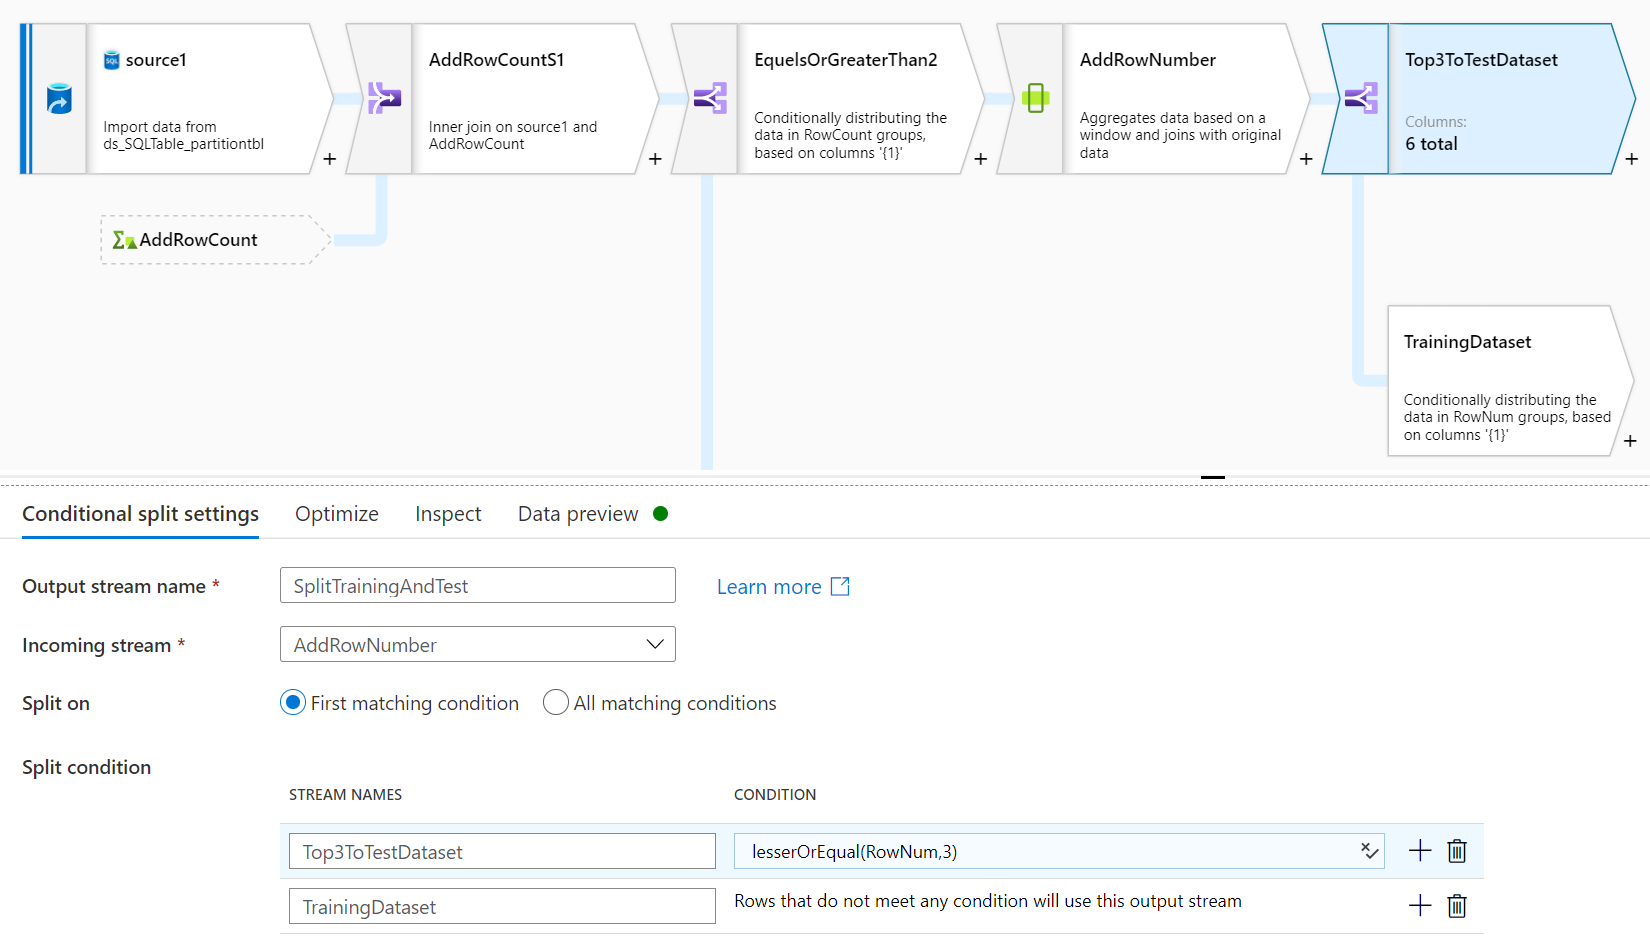
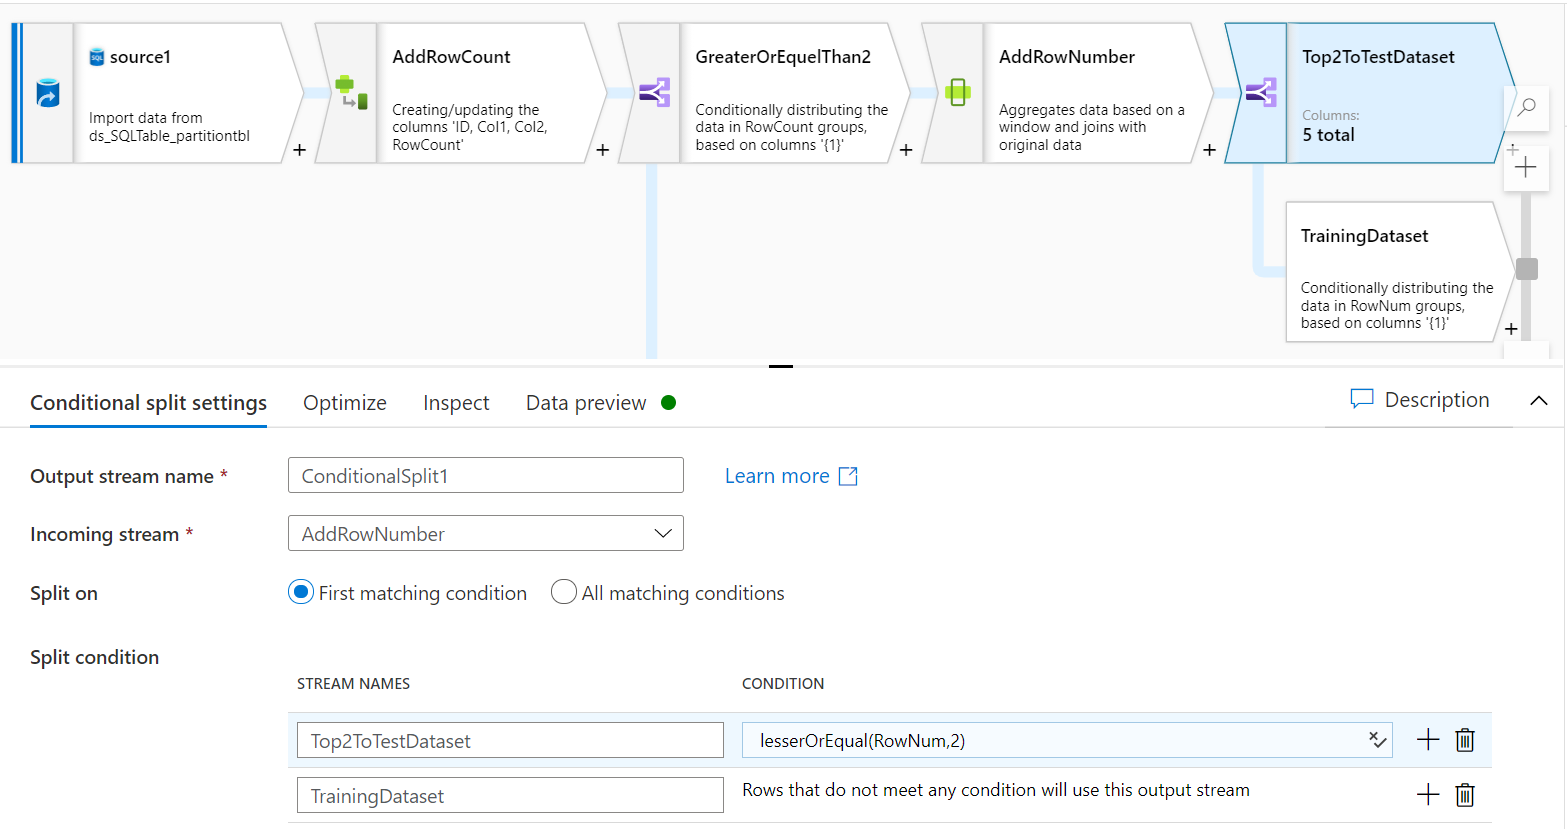
update cachesink

diff --git a/Azure Machine Learning/Use ADF to process data for AML models/Use ADF to process data for AML models.md b/Azure Machine Learning/Use ADF to process data for AML models/Use ADF to process data for AML models.md
@@ -1,72 +1,90 @@
-# Use Data Factories to process data for automated machine learning(Automl)
+# Use Azure Data Factories to process data for automated machine learning(AutoML) models
 
-Automated machine learning(Automl) would train, tune and gain best model automatically using target metric you specify for classification, regression and time-series forecasting. 
+[Automated machine learning(AutoML)](https://docs.microsoft.com/en-us/azure/machine-learning/concept-automated-ml) is adopted by machine learning projects to train, tune and gain best model automatically using target metric you specify for classification, regression and time-series forecasting. 
 
-But current raw data from data warehouse or transactional database would be huge for dataset of machine learning model. You would [optimize data processing](https://docs.microsoft.com/en-us/azure/machine-learning/concept-optimize-data-processing) via increase RAM of VM, another option is partitioning dataset to parquet file before training models. [Parquet file](https://parquet.apache.org/) formats are recommended for machine learning tasks since it's binary columnar format.
+One of challenges is raw data from data warehouse or transactional database would be huge dataset during training Azure machine learning model. You would [optimize data processing](https://docs.microsoft.com/en-us/azure/machine-learning/concept-optimize-data-processing) via increasing RAM of VM. Given [Parquet file](https://parquet.apache.org/) formats are recommended for machine learning tasks since it's binary columnar format.This tutorial will go through another option partitioning dataset to parquet files before training models. 
 
-Azure Data Factory is a data transformation service, using it would process AML data from below three catagories. 
+In Automated machine learning(AutoML) project, it would apply below three data processing scenarios:
+
+1. Partition large data to parquet files before training models. 
+
+    [Pandas dataframe](https://pandas.pydata.org/pandas-docs/stable/getting_started/overview.html) is commonly used to process data before training models. Even Pandas dataframe works well for data sizes less than 1GB, but if data is large than 1GB, Pandas dataframe slow down to process data, sometime even will get out of memory error message. 
+
+    Azure Data Factories Mapping data flows are visually designed data transformations with code-free to data engineers. It's powerful to process large data since the pipeline use scaled-out Spark clusters.
+
+1. Split training dataset and test dataset. 
+    
+    Training dataset will be used for training model, test dataset will be used for evaluate models in machine learning project. Mapping data flows conditional split activity would split training data and test data. 
 
 1. Remove unqualified data.
 
-    For [many-models solution](https://github.com/microsoft/solution-accelerator-many-models), you would want to remove unqualified files, such as: a flat file with zero row. 
-
-1. Split training data and test data. 
-    
-     It would split training data and test data per partition. 
-
-1. Partition large data to parquet files before training model. 
-
-    A good example is when use [pandas dataframe](https://pandas.pydata.org/pandas-docs/stable/getting_started/overview.html), Pandas dataframe works well for data sizes less than 1GB, but if data is large than 1GB, Pandas dataframe slow down to process data, sometime even will get out of memory error message. 
+    You may want to remove unqualified data, such as: parquet file with zero row. In this tutorial, we will use Aggregate activity to get row count row, the row count will be a condition to remove unqualified data. 
 
 
 ## Preparation
-Use a table of Azure SQL Database as raw data. 
+Use a table of Azure SQL Database as raw data, then run [Insert data](./Images/MyLocation.sql) get tutorial data. 
 ```
-CREATE TABLE [dbo].[Transaction](
+CREATE TABLE [dbo].[MyTransaction](
 	[ID] [int] NULL,
 	[Col1] [char](124) NULL,
-	[Col2] [char](124) NULL
+	[Col2] [char](124) NULL,
+	[Col3] datetime NULL,
+	[Col4] int NULL
+
 ) 
+
 ```
 
 ## Convert data format to parquet
-Data flow is recommended to use convert a table of Azure SQL Database to parquet file format. 
+
+Data flow will convert a table of Azure SQL Database to parquet file format. 
 
 **Source Dataset**: Transaction table of Azure SQL Database
 
 **Sink Dataset**: Blob storage with Parquet format
 
 
-## Remove unqualified files
-Let's suppose to remove row count less than 2.
+## Remove unqualified data based on row count
 
-1. Use Aggregate activity to get row count row: Group by based on Col2 and Aggregates with count(1) for row count. 
-![Get Row Count](./Images/AggregateActivityAddRowCount.png)
+Let's suppose to remove row count less than 2. 
 
-1. Add row count column, this will be a condition in later steps. 
-![Add Row Count Column](./Images/JoinActivityRowCountS1.png)
+1. Use Aggregate activity to get row count row: **Group by** based on Col2 and **Aggregates** with count(1) for row count. 
 
-1. Use Conditional split activity to remove unqualified row, this example will be row less than 2.  
+    ![Get Row Count](./Images/AggregateActivityAddRowCount.png)
 
-![Conditional Split based on row count](./Images/ConditionalSplitEquelsOrGreaterThan2.png)
+1. Use Sink activity, choose **Sink type** as Cache in **Sink** tab, then choose desired column from **key columns** dropdown list in **Settings** tab. 
 
+    ![Get Row Count](./Images/CacheSinkActivityAddRowCount.png)
 
-## Split training data and test data. 
+1. Use derived column activity to add row count column in  in master source stream. In **Derived column's settings** tab, use CacheSink#lookup expression getting row count from SinkCache.
+    ![Add Row Count Column](./Images/DerivedColumnActivityRowCountS1.png)
 
-1. Use Window activity to add one column as row number for each partition. 
-In **Over** tab choose column for partition, give order in **Sort** tab, and add one column as row number in each partition. 
-![Conditional Split based on row count](./Images/WindowActivityAddRowNumber.png)
+1. Use Conditional split activity to remove unqualified data. In this example,  row count based on Col2 column, and the condition is to remove row count less than 2, so two rows (ID=2 and ID=7) will be removed. You would save unqualified data to a blob storage for data management. 
 
-1. Use conditional split to split each partition top 3 row to test dataset, and the rest data to training dataset. 
-![SplitTrainingDatasetAndTestDataset](./Images/SplitTrainingDatasetAndTestDataset.png)
+    ![Conditional Split based on row count](./Images/ConditionalSplitGreaterOrEquelThan2.png)
 
-## Partition training dataset and test dataset
+    Note: 
+    1. Create a new source for getting row count which will be used in original source in later steps. 
+    1. Use CacheSink from performance standpoint. 
 
-In **Optimize** tab, using **Unique value per partition** to set a column as a column key for partition.  
-![SplitTrainingDatasetAndTestDataset](./Images/PartitionSink.png)
+## Split training data and test data 
+
+1. We want to split training data and test data for each partition. In this example, for the same value of Col2, get top 2 rows as test data and the rest rows as training data. 
+
+    Use Window activity to add one column row number for each partition. In **Over** tab choose column for partition(in this tutorial, will partition for Col2), give order in **Sort** tab(in this tutorial, will based on ID to order), and in **Window columns** tab to add one column as row number for each partition. 
+    ![Conditional Split based on row count](./Images/WindowActivityAddRowNumber.png)
+
+1. Use conditional split activity to split each partition top 2 rows to test dataset, and the rest rows to training dataset. In **Conditional split setttings** tab, use expression lesserOrEqual(RowNum,2) as condition. 
+
+    ![SplitTrainingDatasetAndTestDataset](./Images/SplitTrainingDatasetAndTestDataset.png)
+
+## Partition training dataset and test dataset with parquet format
+
+1. Use Sink activity, in **Optimize** tab, using **Unique value per partition** to set a column as a column key for partition. 
+    ![SplitTrainingDatasetAndTestDataset](./Images/PartitionTrainingDatasetSink.png)
 
 Looks back the entire pipeline logic: 
-![EntirePipeline](./Images/EntirePipeline.png)
+    ![EntirePipeline](./Images/EntirePipeline.png)
 
 
 
